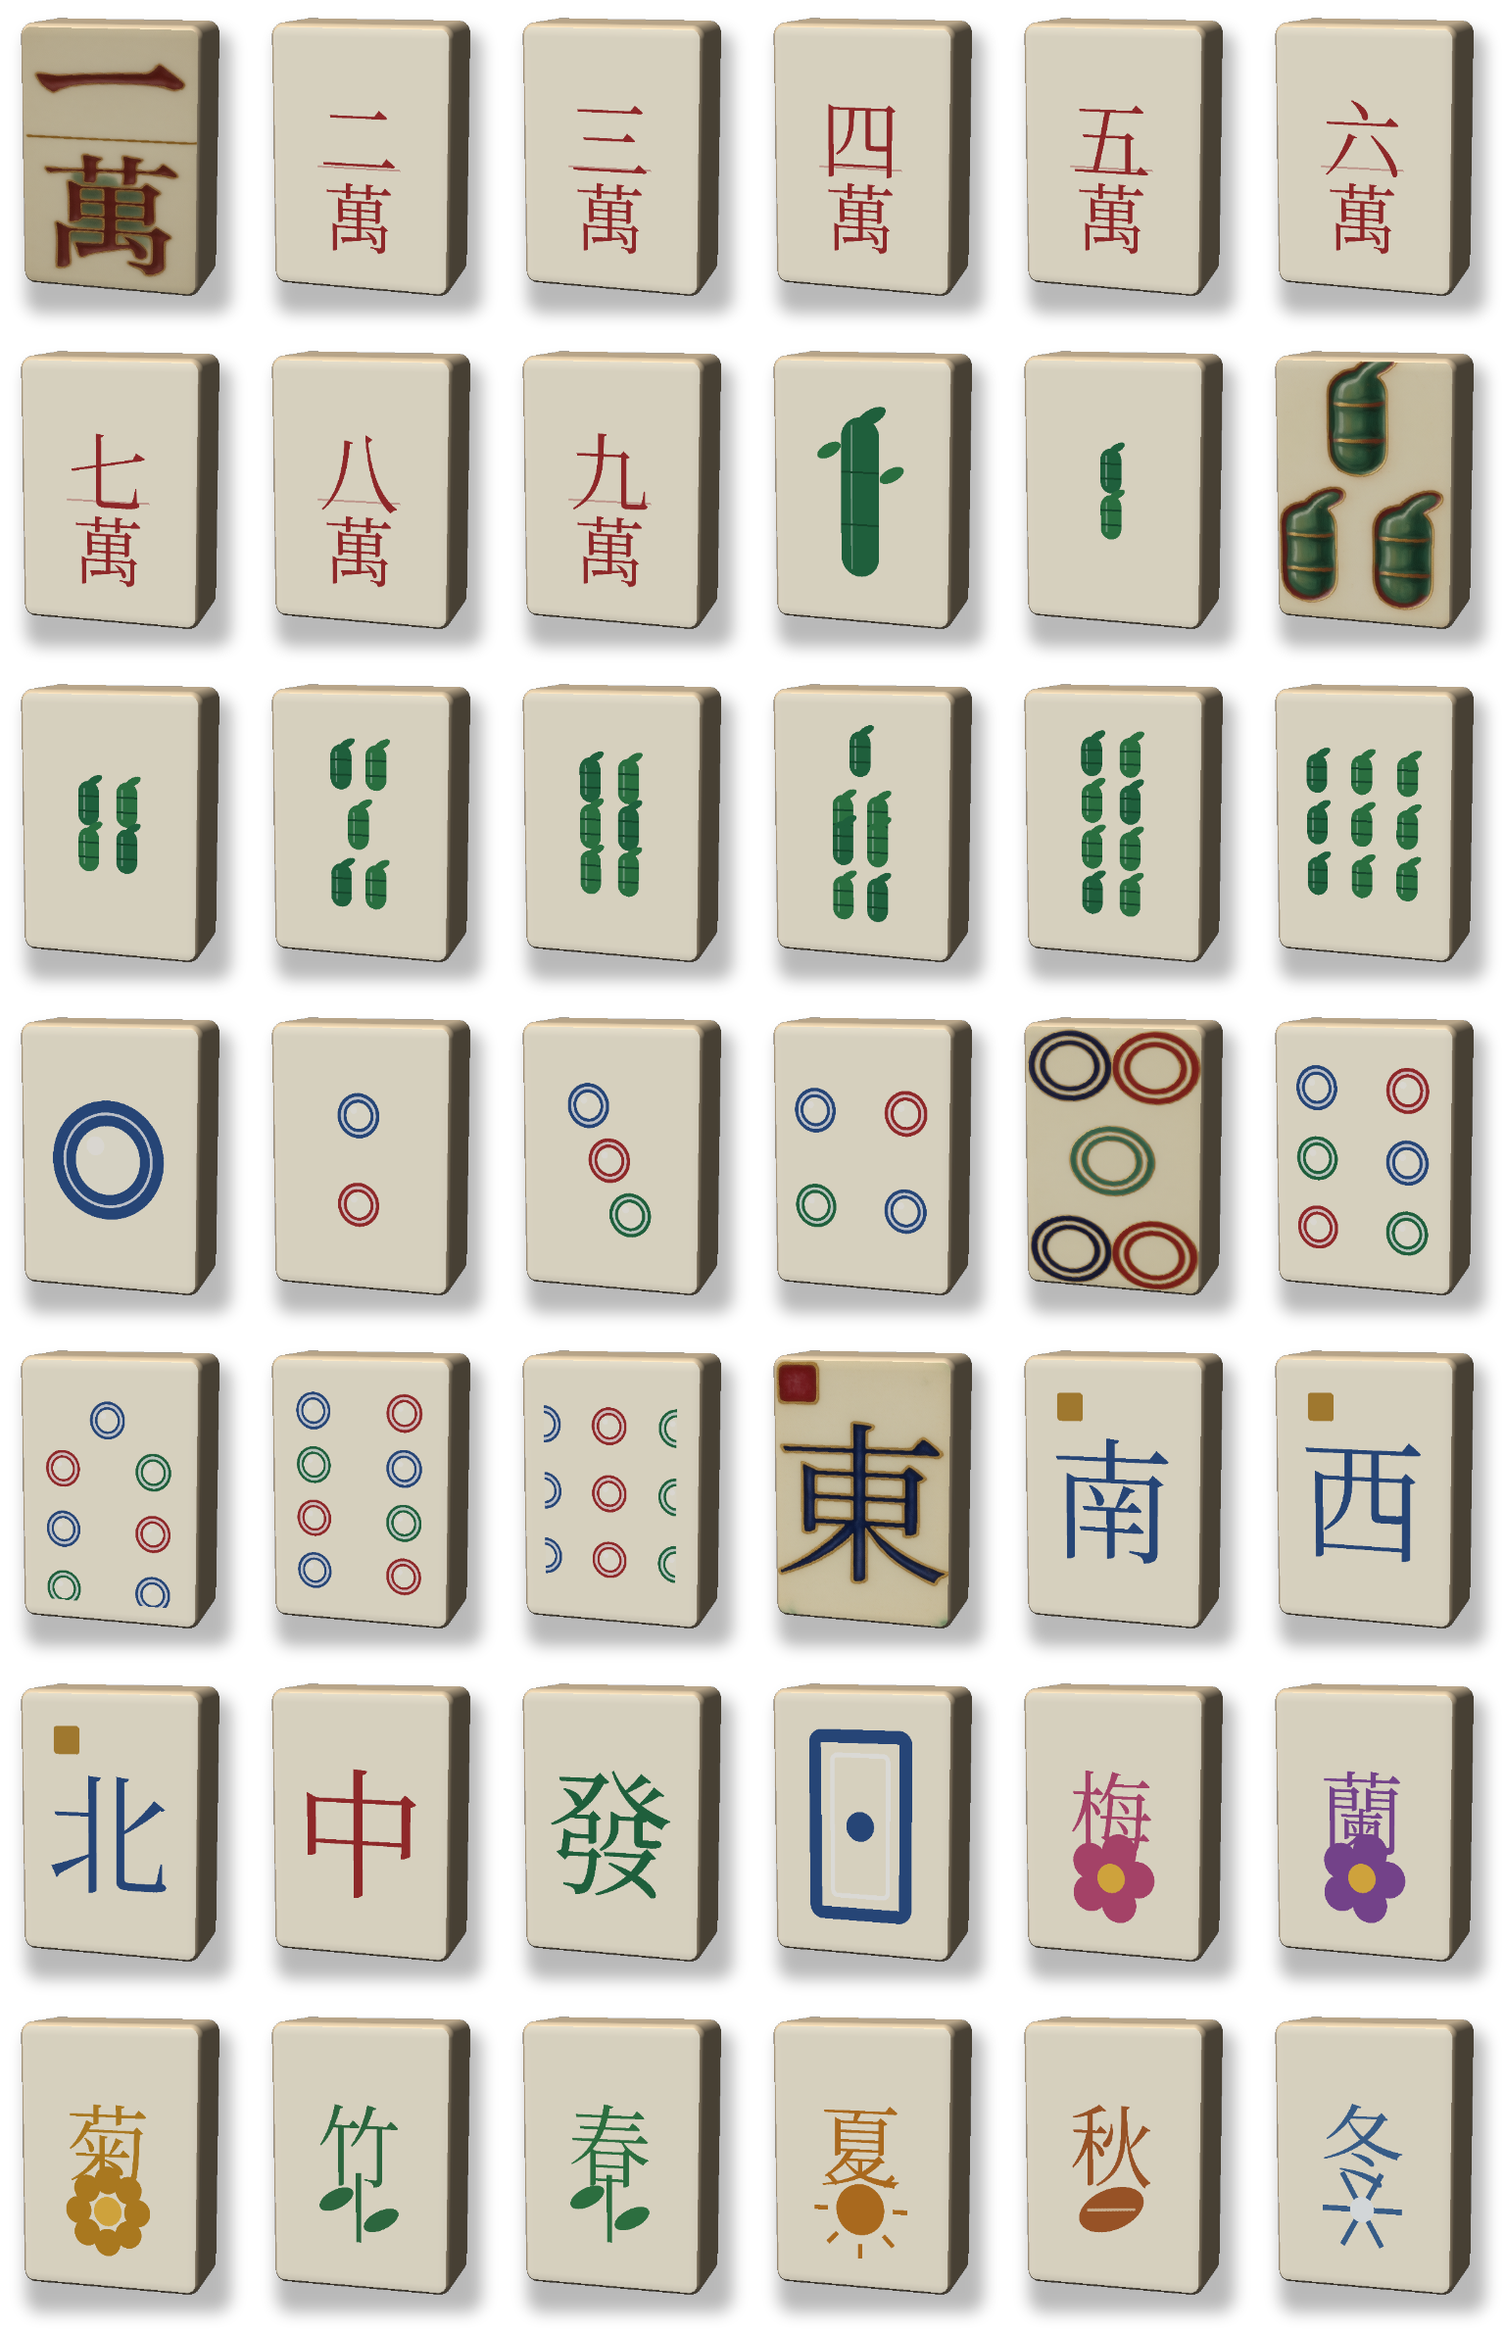
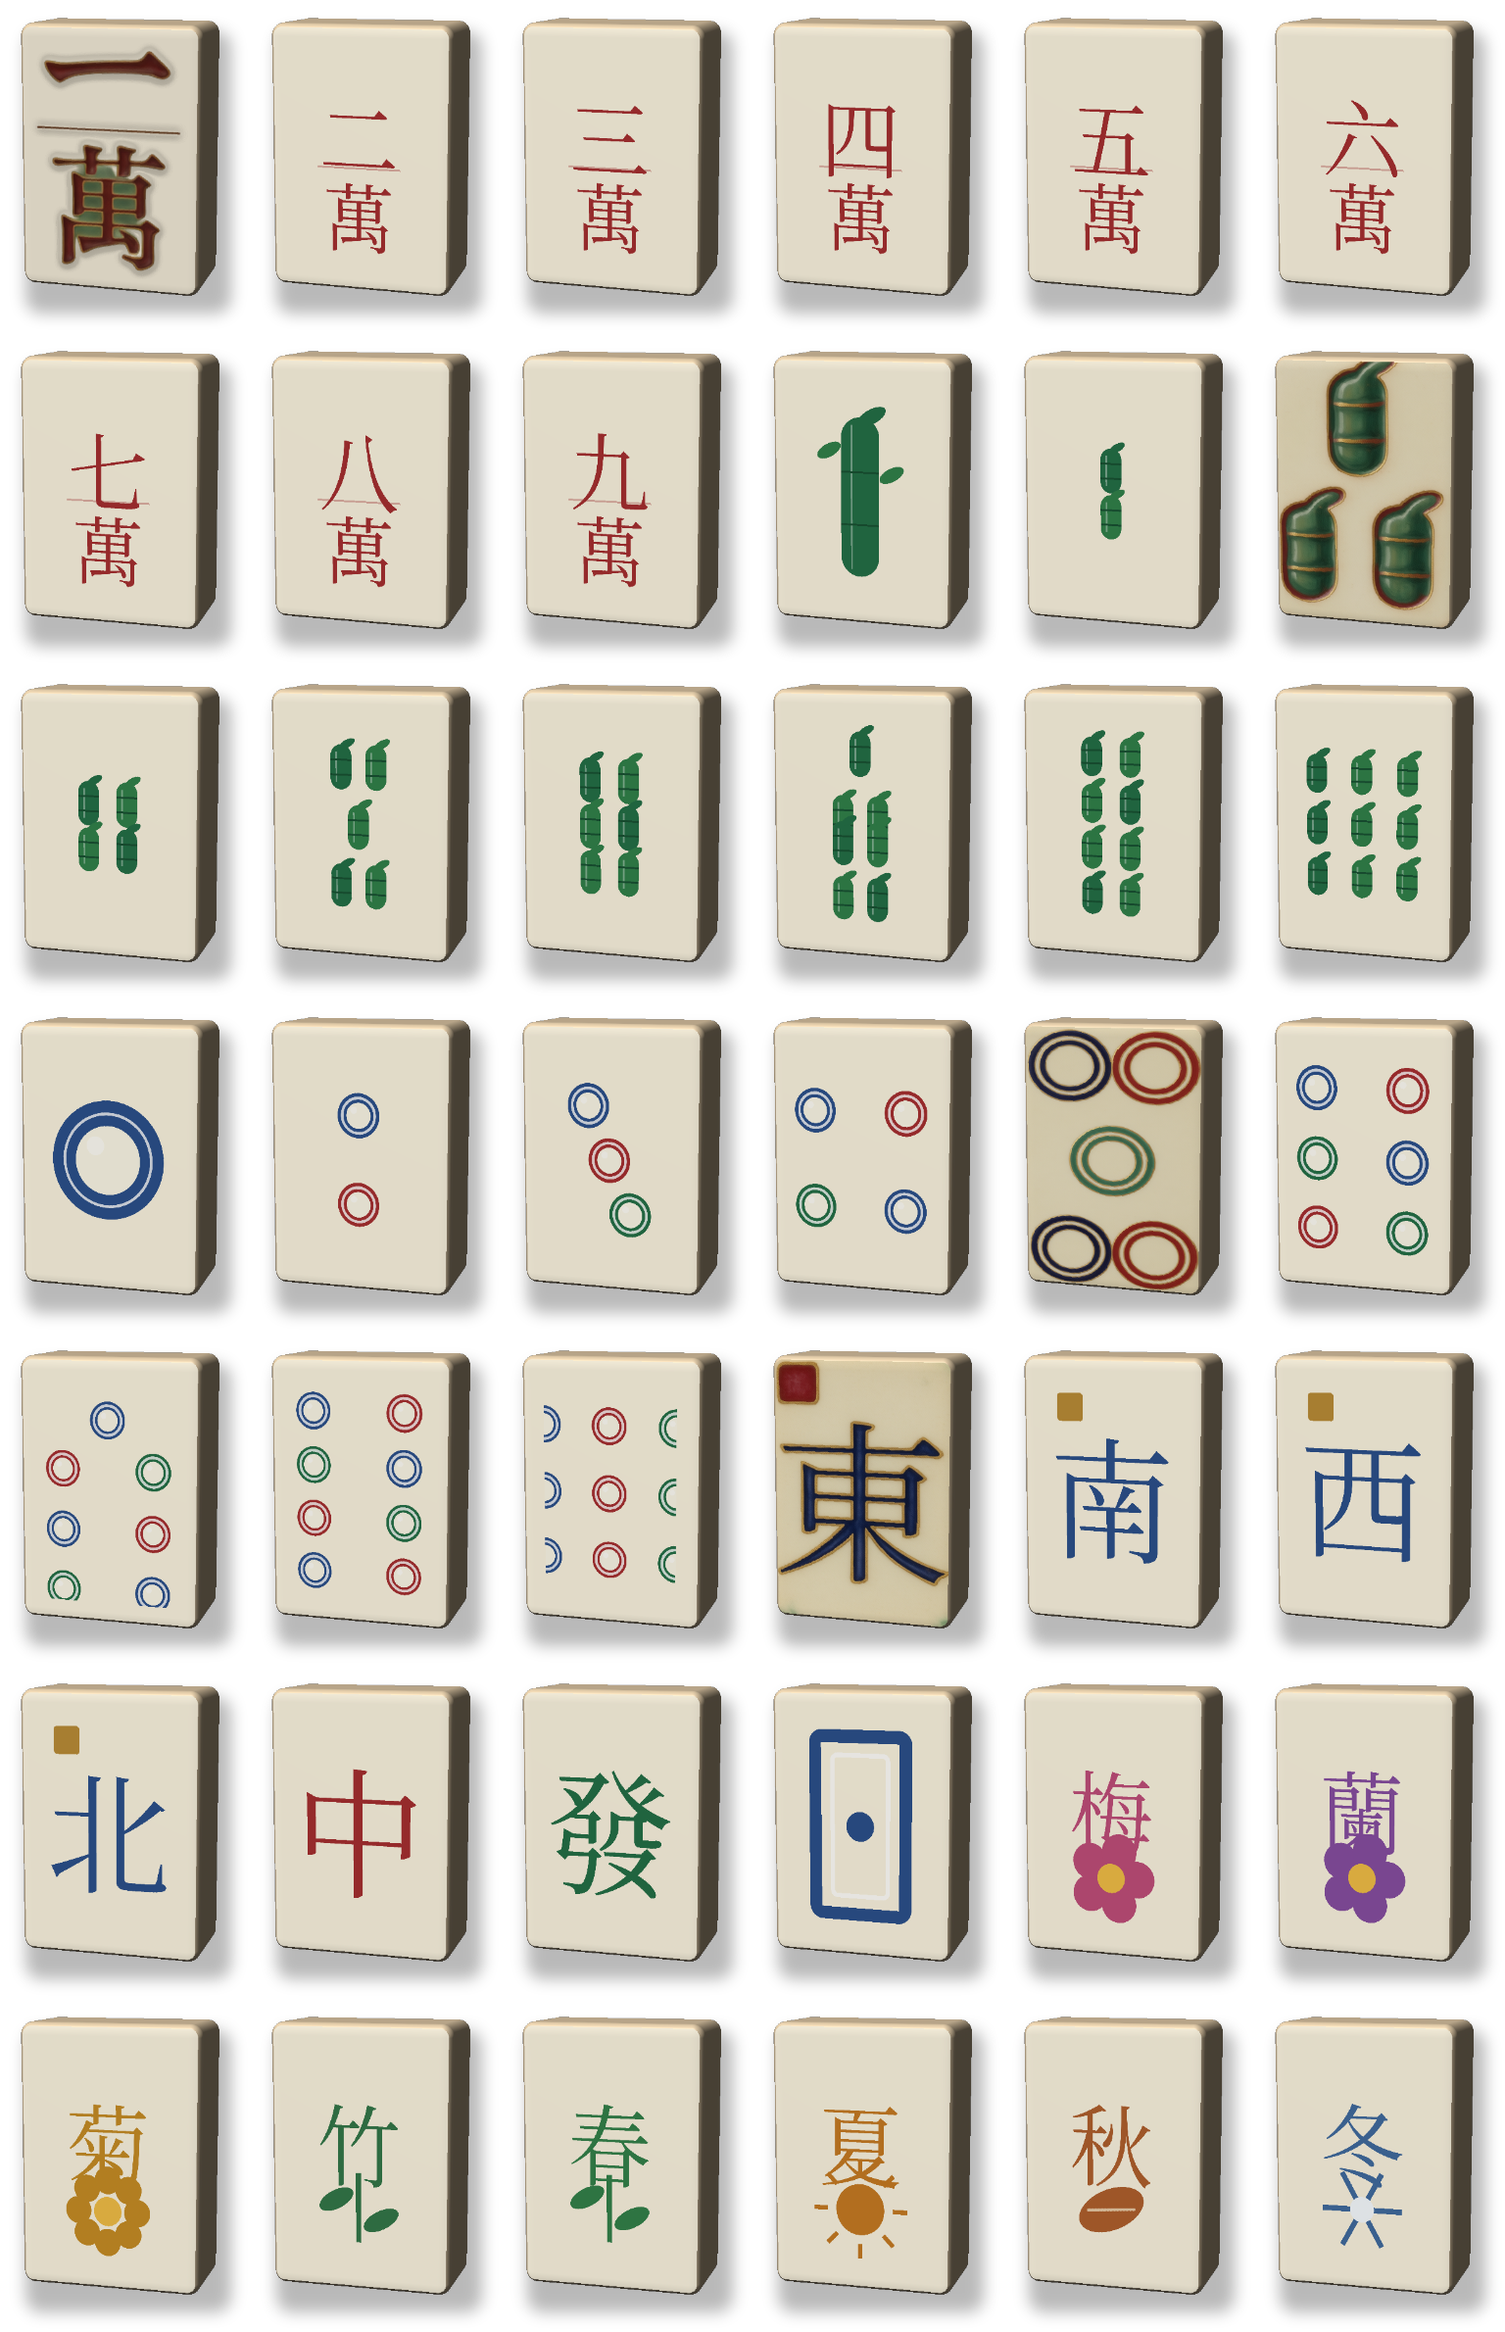
fix(tiles): clean and normalize layered glyphs, soften 3D relief
- Prefer the smallest substantial transparent layer: with three layers the
  decomposition yields background, tile body and glyph, and the glyph is the
  one we keep.
- Clean faint residual alpha, crop to the glyph and scale it to 82% of the
  face so every glyph is consistent and fills the tile.
- Flatten the ambient relief term: the height field now only embosses edges,
  instead of darkening the whole face into a drop-shadow.
- Add decompose --max-size; 432 px runs at 26 s/step versus 185 s/step at
  416 px, and fits in 36 GB without swapping.
- Save every decomposed layer under artifacts for inspection.

Changed region(s): [[0.0, 0.0, 0.1562, 0.1244]]

diff --git a/tools/tile-pipeline/roktiles/cli.py b/tools/tile-pipeline/roktiles/cli.py
@@ -106,7 +106,7 @@ def cmd_generate(args: argparse.Namespace) -> int:
     if args.dry_run:
         for face in selected_faces:
             if args.provider == "layered":
-                prompt, negative = build_decomposition_prompt(args.extra or "")
+                prompt, negative = build_decomposition_prompt(args.extra or "", args.layers)
             else:
                 prompt, negative = build_prompt(face, args.style, args.extra or "")
             print(f"\n[{face.label}] {face.description}\n  {prompt}")
@@ -141,7 +141,7 @@ def cmd_generate(args: argparse.Namespace) -> int:
             continue
 
         if args.provider == "layered":
-            prompt, negative = build_decomposition_prompt(args.extra or "")
+            prompt, negative = build_decomposition_prompt(args.extra or "", args.layers)
         else:
             prompt, negative = build_prompt(face, args.style, args.extra or "")
         started = time.monotonic()
@@ -407,8 +407,9 @@ def cmd_decompose(args: argparse.Namespace) -> int:
         return 1
 
     options = _provider_options(args)
+    options["save_layers_dir"] = str(config.HISTORY_DIR / "layers" / _id("layers"))
     provider = create_provider("layered", args.model, options=options)
-    prompt, negative = build_decomposition_prompt(args.extra or "")
+    prompt, negative = build_decomposition_prompt(args.extra or "", args.layers)
     seed = args.seed if args.seed is not None else parent.seed
 
     run_id = _id("r")
@@ -423,11 +424,20 @@ def cmd_decompose(args: argparse.Namespace) -> int:
     run_dir = config.HISTORY_DIR / run_id
     run_dir.mkdir(parents=True, exist_ok=True)
 
+    reference = parent.image_path
+    if args.max_size > 0:
+        with Image.open(parent.image_path) as source:
+            if max(source.size) > args.max_size:
+                scaled = source.copy()
+                scaled.thumbnail((args.max_size, args.max_size), Image.LANCZOS)
+                reference = run_dir / f"{parent.face}_reference.png"
+                scaled.save(reference)
+
     print(f"  decomposing {parent.id} ({parent.face}) seed={seed} … ", end="", flush=True)
     started = time.monotonic()
     try:
         request = GenerationRequest(
-            reference=parent.image_path,
+            reference=reference,
             prompt=prompt,
             negative_prompt=negative,
             seed=seed,
@@ -655,6 +665,12 @@ def build_parser() -> argparse.ArgumentParser:
     decompose_parser.add_argument("--width", type=int, default=832)
     decompose_parser.add_argument("--height", type=int, default=1152)
     decompose_parser.add_argument("--extra", default="")
+    decompose_parser.add_argument(
+        "--max-size",
+        type=int,
+        default=0,
+        help="downscale the source before decomposing (attention memory scales with tokens^2)",
+    )
     decompose_parser.set_defaults(func=cmd_decompose)
 
     sheet_parser = subparsers.add_parser(

diff --git a/tools/tile-pipeline/roktiles/applier.py b/tools/tile-pipeline/roktiles/applier.py
@@ -71,16 +71,29 @@ def crop_to_artwork(image: Image.Image, inset: float = 0.015) -> Image.Image:
     return rgb.crop((left + dx, top + dy, right - dx, bottom - dy))
 
 
-def _fit_canvas(image: Image.Image, size: tuple[int, int]) -> Image.Image:
-    copy = image.copy()
-    copy.thumbnail(size, Image.LANCZOS)
+def _fit_canvas(image: Image.Image, size: tuple[int, int], fill: float = 0.82) -> Image.Image:
+    """Crop to the glyph and scale it to a consistent share of the face."""
+    bounds = image.convert("RGBA").getchannel("A").getbbox()
+    if bounds:
+        image = image.crop(bounds)
+    max_width = max(1, int(size[0] * fill))
+    max_height = max(1, int(size[1] * fill))
+    scale = min(max_width / image.width, max_height / image.height)
+    resized = image.resize(
+        (max(1, int(image.width * scale)), max(1, int(image.height * scale))),
+        Image.LANCZOS,
+    )
     canvas = Image.new("RGBA", size, (0, 0, 0, 0))
-    canvas.alpha_composite(copy, ((size[0] - copy.width) // 2, (size[1] - copy.height) // 2))
+    canvas.alpha_composite(
+        resized, ((size[0] - resized.width) // 2, (size[1] - resized.height) // 2)
+    )
     return canvas
 
 
 def _apply_glyph(label: str, generation: store.Generation, image: Image.Image) -> None:
-    canvas = _fit_canvas(image.convert("RGBA"), config.GLYPH_SIZE)
+    rgba = image.convert("RGBA")
+    rgba.putalpha(glyphs.clean_alpha(rgba))
+    canvas = _fit_canvas(rgba, config.GLYPH_SIZE)
     glyph_path = config.GLYPH_DIR / f"{label}.png"
     height_path = config.GLYPH_DIR / f"{label}.height.png"
     canvas.save(glyph_path, format="PNG", optimize=True)

diff --git a/tools/tile-pipeline/roktiles/glyphs.py b/tools/tile-pipeline/roktiles/glyphs.py
@@ -58,9 +58,15 @@ def choose_glyph_layer(layers: list[bytes]) -> tuple[int, LayerStats, list[Layer
         raise ValueError("No layers to choose from.")
 
     stats = analyse(layers)
-    candidates = [layer for layer in stats if layer.transparency > 0.02 and layer.coverage < 0.9]
+    # A decomposition can yield the tile body and the glyph as separate
+    # transparent layers. The glyph is the smaller substantial one.
+    candidates = [
+        layer
+        for layer in stats
+        if layer.transparency > 0.02 and 0.02 < layer.coverage < 0.9
+    ]
     best = (
-        max(candidates, key=lambda layer: layer.coverage)
+        min(candidates, key=lambda layer: layer.coverage)
         if candidates
         else max(stats, key=lambda layer: layer.transparency)
     )
@@ -73,6 +79,17 @@ def has_transparency(data: bytes) -> bool:
     except OSError:
         return False
     return stats.transparency > 0.02
+
+
+def clean_alpha(image: Image.Image, low: int = 28, high: int = 210) -> Image.Image:
+    """Drop the faint residual alpha left by the layered decomposition."""
+    alpha = image.getchannel("A")
+    span = max(1, high - low)
+    lookup = [
+        0 if value <= low else 255 if value >= high else int((value - low) * 255 / span)
+        for value in range(256)
+    ]
+    return alpha.point(lookup)
 
 
 def derive_height(image: Image.Image, blur_radius: int = 9) -> Image.Image:

diff --git a/tools/RokMahjong.TileArtGen/TileRenderer.cs b/tools/RokMahjong.TileArtGen/TileRenderer.cs
@@ -26,7 +26,7 @@ public static class TileRenderer
     private const float TileWidth = 1.0f;
     private const float TileDepth = 0.55f;
     private const float EdgeRadius = 0.065f;
-    private const float HeightScale = 0.012f;
+    private const float HeightScale = 0.006f;
     private const float FieldOfViewDegrees = 22f;
 
     public static byte[] RenderCell(
@@ -217,8 +217,8 @@ public static class TileRenderer
         var specular = MathF.Pow(MathF.Max(Vector3.Dot(normal, half), 0f), 42f) * 0.45f;
 
         var ambientOcclusion = AmbientOcclusion(localPoint, halfExtents, localNormal);
-        var crease = isFace ? Math.Clamp(1f - gradient * 0.06f, 0.55f, 1f) : 1f;
-        var relief = isFace ? 0.86f + height * 0.18f : 1f;
+        var crease = isFace ? Math.Clamp(1f - gradient * 0.015f, 0.85f, 1f) : 1f;
+        var relief = isFace ? 1f + (height - 0.5f) * 0.04f : 1f;
 
         var light = 0.24f * ambientOcclusion + keyDiffuse * 0.88f + fillDiffuse * 0.10f;
         var color = albedo * light * crease * relief + new Vector3(specular);

diff --git a/tools/tile-pipeline/roktiles/providers/layered.py b/tools/tile-pipeline/roktiles/providers/layered.py
@@ -2,6 +2,8 @@
 
 from __future__ import annotations
 
+from pathlib import Path
+
 from .. import config
 from ..glyphs import choose_glyph_layer
 from .base import GenerationOutput, GenerationRequest, ProviderError
@@ -152,6 +154,12 @@ class LayeredProvider:
             raise ProviderError(f"Qwen-Image-Layered produced no layers: {entry}")
 
         layers = [download_image(self.base_url, info) for info in images]
+        save_dir = options.get("save_layers_dir")
+        if save_dir:
+            directory = Path(save_dir)
+            directory.mkdir(parents=True, exist_ok=True)
+            for layer_index, data in enumerate(layers):
+                (directory / f"layer_{layer_index}.png").write_bytes(data)
         index, best, stats = choose_glyph_layer(layers)
         chosen = layers[index]
 

diff --git a/tools/tile-pipeline/roktiles/prompts.py b/tools/tile-pipeline/roktiles/prompts.py
@@ -117,8 +117,17 @@ _DECOMPOSE_NEGATIVE = (
 )
 
 
-def build_decomposition_prompt(extra: str = "") -> tuple[str, str]:
-    prompt = _DECOMPOSE_PROMPT
+_DECOMPOSE_THREE_PROMPT = (
+    "Split this mahjong tile into three layers. Layer 1: the plain background. "
+    "Layer 2: the ceramic tile body with its gold border and bevel. Layer 3: "
+    "only the painted glyph strokes on a fully transparent background, with no "
+    "tile surface, no border and no shadow. Keep the exact shapes, colours and "
+    "proportions of the glyph."
+)
+
+
+def build_decomposition_prompt(extra: str = "", layers: int = 2) -> tuple[str, str]:
+    prompt = _DECOMPOSE_THREE_PROMPT if layers >= 3 else _DECOMPOSE_PROMPT
     if extra:
         prompt = f"{prompt} {extra.strip()}"
     return prompt, _DECOMPOSE_NEGATIVE

diff --git a/tools/tile-pipeline/README.md b/tools/tile-pipeline/README.md
@@ -98,14 +98,30 @@ with Qwen-Image-Edit 2511, then decompose it into a transparent glyph.
 
 ```bash
 uv run roktiles generate --face C1 --style porcelain     # painted tile
-uv run roktiles decompose <generation-id>                 # RGBA glyph
+uv run roktiles decompose <generation-id> --layers 3 --max-size 432
 uv run roktiles select <glyph-generation-id>              # apply + rebuild
 ```
 
-`decompose` runs the official *Image to Layers* graph, keeps the foreground
-glyph layer (the fully opaque background layer is discarded) and stores it as a
-new generation with `glyph_layer`, `layer_stats` and `parent` in its parameters.
-It can also be pointed at any earlier generation.
+`--layers 3` matters: with two layers the model separates *tile object* from
+background; with three it separates background, tile body and the painted glyph
+strokes, which is the layer we keep.
+
+`--max-size` downscales the source before decomposition. Attention cost grows
+with the square of the token count, so 432 px runs around 26 s/step while
+416 px needs ~185 s/step and ~38 GB of unified memory. The chosen layer is
+upscaled to the 512×704 glyph texture. On a 36 GB Mac, 432 px fits comfortably;
+576 px needs roughly 10 GB free.
+
+`decompose` runs the official *Image to Layers* graph, keeps the smallest
+substantial transparent layer (the glyph, not the tile body or the opaque
+background) and stores it as a new generation with `glyph_layer`, `layer_stats`
+and `parent` in its parameters. Every returned layer is also written under
+`artifacts/tile-pipeline/history/layers/` for inspection. It can be pointed at
+any earlier generation.
+
+Selected glyphs are alpha-cleaned (the decomposition leaves faint residual
+alpha), cropped to their content and scaled to a consistent share of the face
+before they are written to `assets/art/glyphs/`.
 
 `--provider layered` on `generate` does the same thing directly against the
 reference image, which is useful for checking the graph or extracting the

diff --git a/docs/plan.md b/docs/plan.md
@@ -821,8 +821,11 @@ adds the tests that would have caught the bugs introduced by that milestone.
 - [x] Glyph albedo + height map pipeline (Qwen-Image-Layered provider).
 - [x] `roktiles decompose` extracts a transparent glyph from a generated tile.
 - [x] Layered model runs from the Q4_K_M GGUF (fp8 cannot run on MPS).
+- [x] Selected glyphs are alpha-cleaned, cropped and size-normalized before use.
+- [x] 3D tile face relief is subtle so the glyph reads as painted, not a sticker.
 - [ ] Verify the 4-step Lightning LoRA path with a downloaded model.
-- [ ] Verify Qwen-Image-Layered end to end on this machine.
+- [x] Verify Qwen-Image-Layered end to end on this machine (3-layer split,
+      432 px source, 26 s/step on MPS).
 - [~] Generate, review and select the full 42-face porcelain set (4/42).
 - [ ] Compare `lacquer`, `ink` and `jade` styles and sign off the final look.
 - [ ] Exercise the OpenRouter adapter with a real key and model.

diff --git a/AGENTS.md b/AGENTS.md
@@ -189,7 +189,7 @@ live in `RokMahjong.Game`.
 ```bash
 cd tools/tile-pipeline
 uv run roktiles generate --face C1 --style porcelain
-uv run roktiles generate --face C1 --provider layered --style porcelain
+uv run roktiles decompose <generation-id> --layers 3 --max-size 432
 uv run roktiles history --face C1
 uv run roktiles sheet --face C1 --open
 uv run roktiles select <generation-id>
